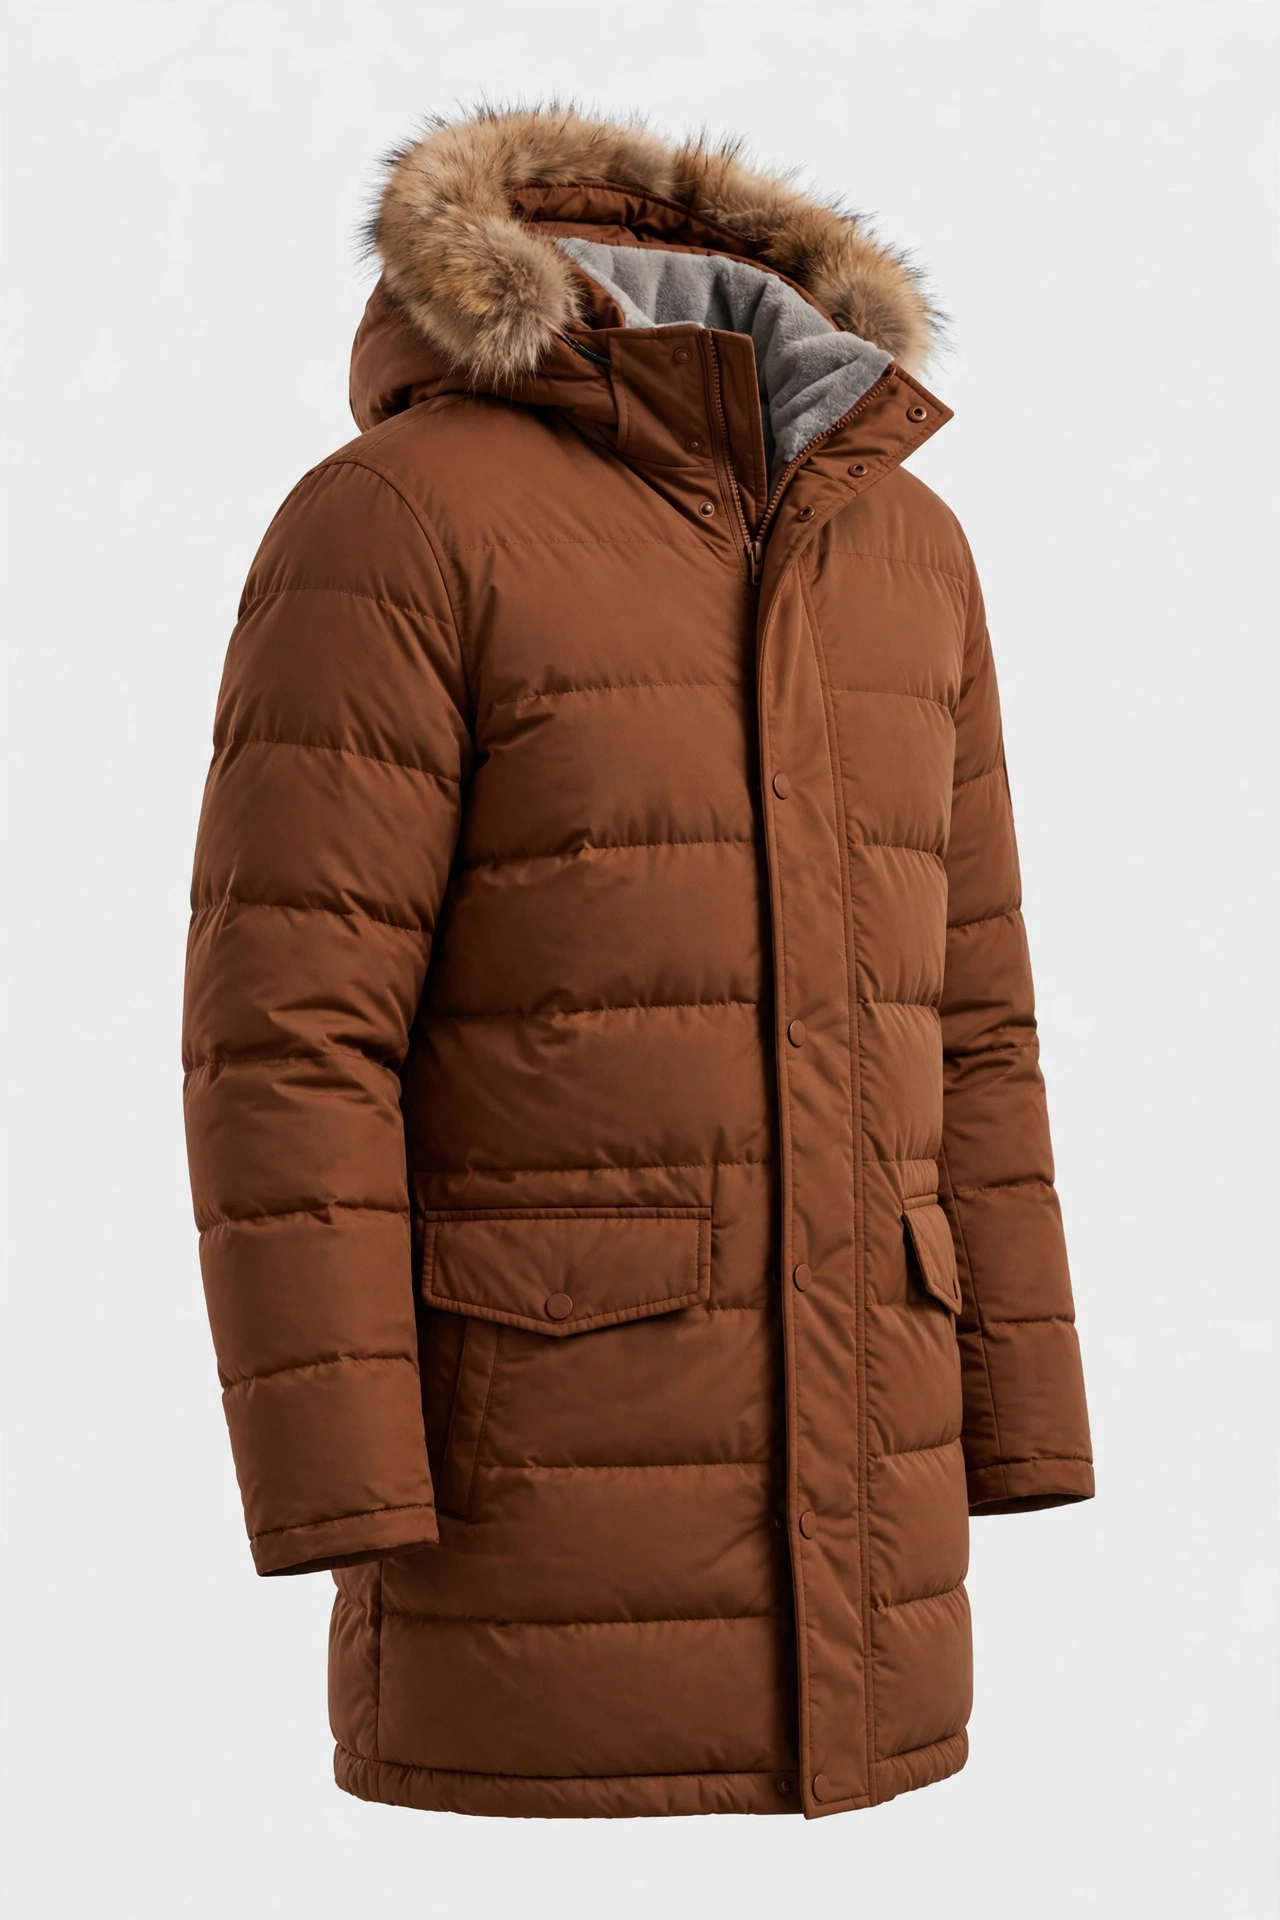
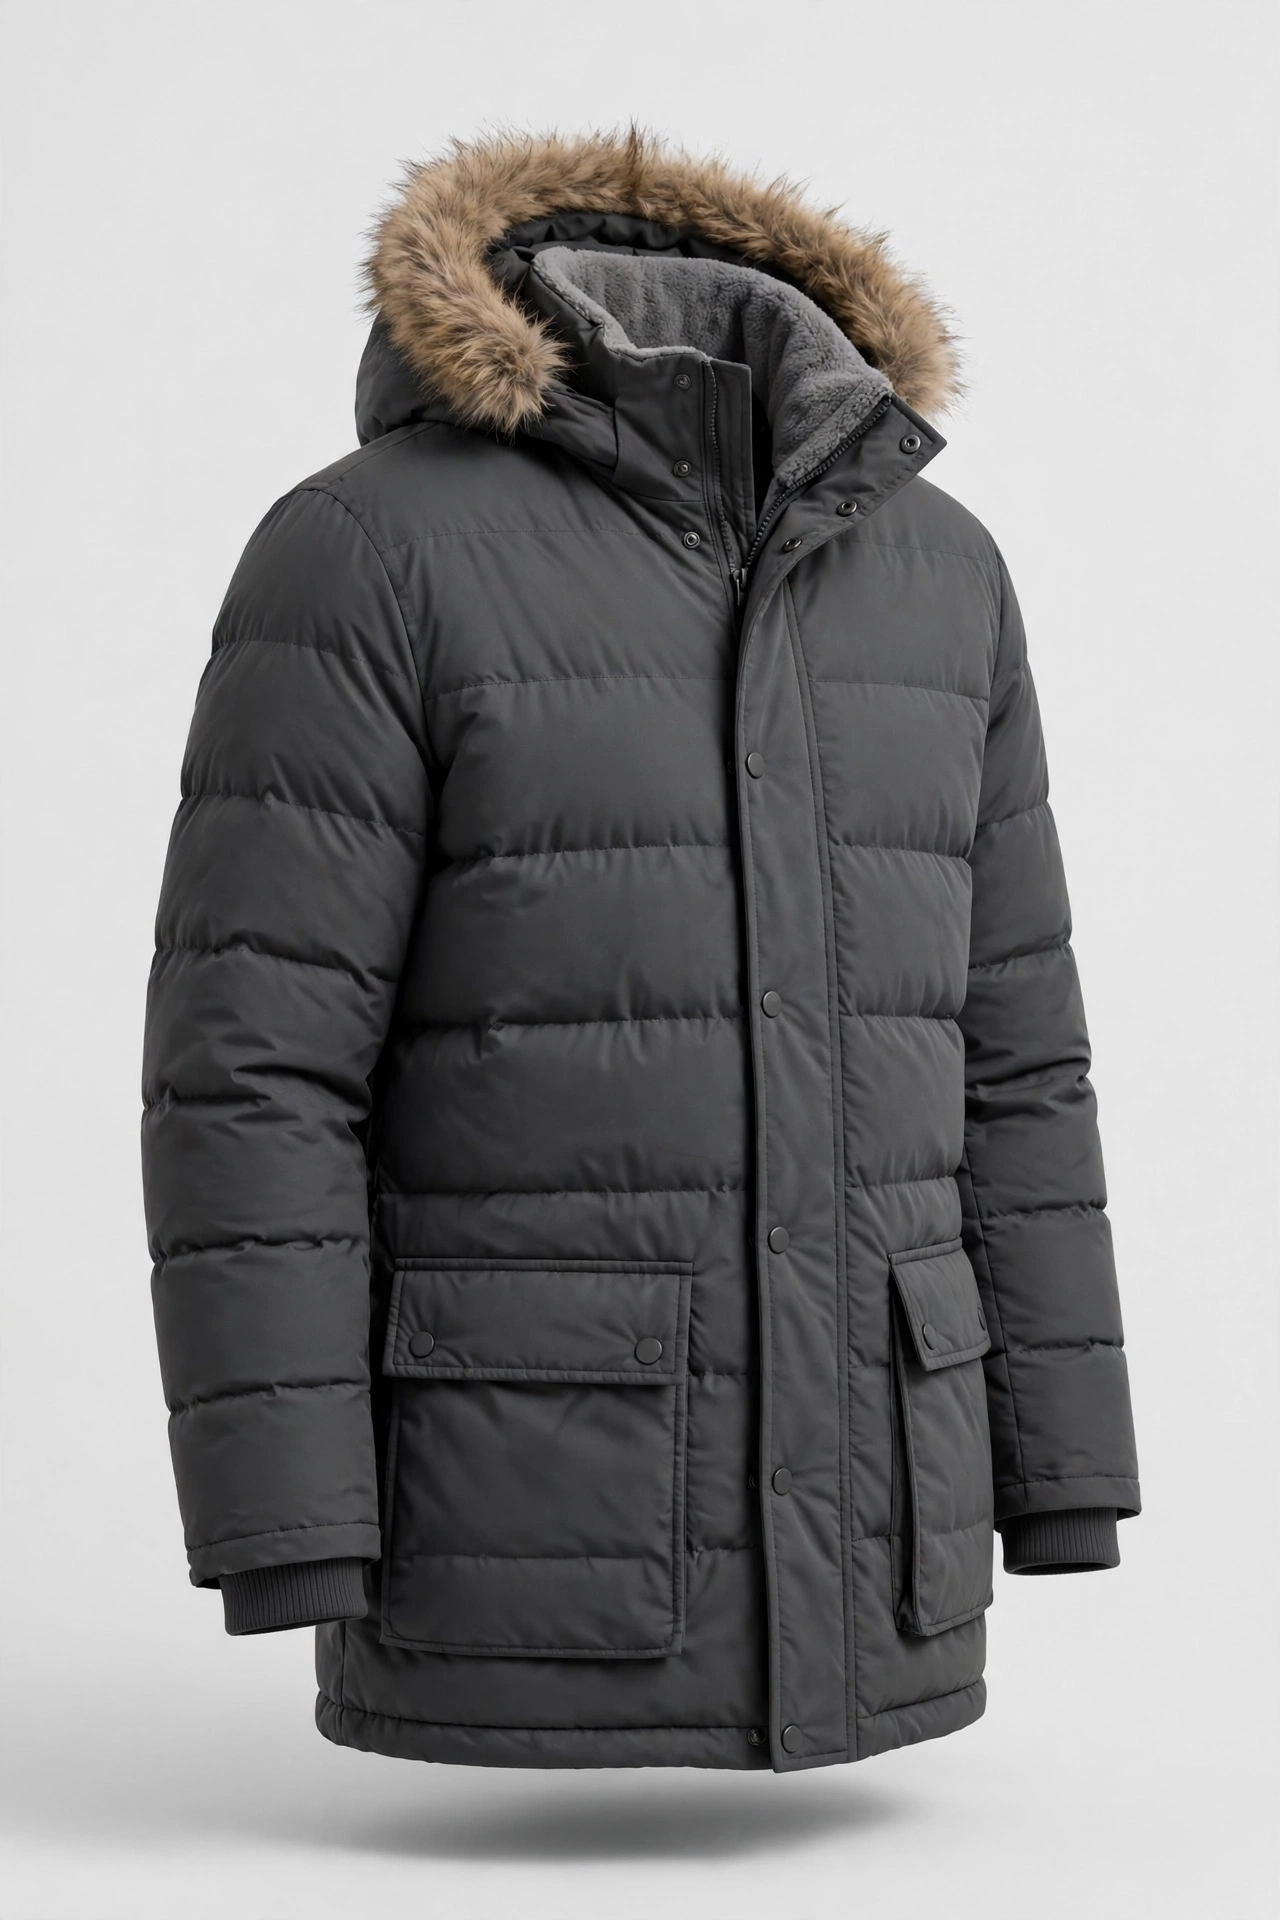
Top-6 pictures v2 (first colours) + 6 picks on home + compare on Deals + remove business disclosure

diff --git a/index.html b/index.html
@@ -146,7 +146,7 @@ button.btn{font:inherit;cursor:pointer}
 <img src="hero.webp" alt="A person walking through a snow-covered forest in winter">
 <div>
 <h1>Winter gear for real Canadian cold.</h1>
-<p>Three picks, two brands, no fluff. Parkas and boots from Mountain Warehouse and Columbia, with Canadian prices and honest flaws.</p>
+<p>Six picks, two brands, no fluff. Parkas and boots from Mountain Warehouse and Columbia, with Canadian prices and honest flaws.</p>
 <p><a class="btn" href="parkas-extreme-cold.html">Shop parkas</a><a class="btn alt" href="boots.html">Shop boots</a></p>
 </div>
 </div>
@@ -156,7 +156,7 @@ button.btn{font:inherit;cursor:pointer}
 <h2 style="margin:28px 0 0">Our top picks</h2>
 <p class="countline" id="countLine"></p>
 <div class="grid" id="shop"></div>
-<p class="note">Product pictures are created images of similar products, not the actual product photos. Prices checked <span data-checked-long></span>.</p>
+<p class="note">Prices checked <span data-checked-long></span>.</p>
 
 <section class="box">
 <h2>Browse by guide</h2>
@@ -173,13 +173,12 @@ button.btn{font:inherit;cursor:pointer}
 <p>We list 50 products from Mountain Warehouse and Columbia, sold in Canada. Every price was checked live on the retailer’s own site and is re-checked three times a day. No hands-on testing: warmth and specs are the brands’ own published figures, and where a brand publishes no lab °C rating we say so instead of guessing.</p>
 </section>
 
-<p class="note" id="money">How we make money: right now, nothing. Every retailer link is a plain link and no affiliate commission is paid on it. When affiliate links are added, they will be clearly marked, and brands never pay for placement. This site sells nothing itself.</p>
 </main>
 <footer>
-<p>Winter Clothing Canada · Prices checked <span data-checked-long></span> · No tracking cookies · Product pictures are created images of similar products, not the actual product photos</p>
-<p><a href="index.html">Home</a> · <a href="parkas-extreme-cold.html">Extreme Cold Parkas</a> · <a href="parkas-budget.html">Budget Parkas</a> · <a href="parkas-everyday.html">Everyday Parkas</a> · <a href="boots.html">Boots</a> · <a href="deals.html">Deals</a> · <a href="index.html#money">How we make money</a></p>
+<p>Winter Clothing Canada · Prices checked <span data-checked-long></span> · No tracking cookies</p>
+<p><a href="index.html">Home</a> · <a href="parkas-extreme-cold.html">Extreme Cold Parkas</a> · <a href="parkas-budget.html">Budget Parkas</a> · <a href="parkas-everyday.html">Everyday Parkas</a> · <a href="boots.html">Boots</a> · <a href="deals.html">Deals</a></p>
 </footer>
-<script>var PAGE_MODE="home";var PAGE_SLUGS=["antarctic", "concord", "marquam"];</script>
+<script>var PAGE_MODE="home";var PAGE_SLUGS=["antarctic", "concord", "marquam", "expeditionist", "granger", "frost"];</script>
 <script src="products.js"></script>
 <script src="site.js"></script>
 </body>

diff --git a/parkas-everyday.html b/parkas-everyday.html
@@ -182,7 +182,7 @@ button.btn{font:inherit;cursor:pointer}
 <p class="countline" id="countLine"></p>
 <div class="grid" id="shop"></div>
 <div id="seeMore"></div>
-<p class="note">Product pictures are created images of similar products, not the actual product photos. Prices checked <span data-checked-long></span>.</p>
+<p class="note">Prices checked <span data-checked-long></span>.</p>
 
 <section class="box" id="compare">
 <h2>Compare at a glance</h2>
@@ -193,14 +193,10 @@ button.btn{font:inherit;cursor:pointer}
 
 <div id="details"></div>
 
-<section class="box" id="money">
-<h2>How we make money</h2>
-<p>Right now, nothing: every retailer link on this page is a plain link and no affiliate commission is paid on it. When affiliate links are added, they will be clearly marked, and brands never pay for placement. Prices change — every price here was checked <span data-checked-long></span>, and the retailer's page is the final word. This site sells nothing itself.</p>
-</section>
 </main>
 <footer>
-<p>Winter Clothing Canada · Prices checked <span data-checked-long></span> · No tracking cookies · Product pictures are created images of similar products, not the actual product photos</p>
-<p><a href="index.html">Home</a> · <a href="parkas-extreme-cold.html">Extreme Cold Parkas</a> · <a href="parkas-budget.html">Budget Parkas</a> · <a href="parkas-everyday.html">Everyday Parkas</a> · <a href="boots.html">Boots</a> · <a href="deals.html">Deals</a> · <a href="index.html#money">How we make money</a></p>
+<p>Winter Clothing Canada · Prices checked <span data-checked-long></span> · No tracking cookies</p>
+<p><a href="index.html">Home</a> · <a href="parkas-extreme-cold.html">Extreme Cold Parkas</a> · <a href="parkas-budget.html">Budget Parkas</a> · <a href="parkas-everyday.html">Everyday Parkas</a> · <a href="boots.html">Boots</a> · <a href="deals.html">Deals</a></p>
 </footer>
 <script>var PAGE_MODE="guide";var PAGE_SLUGS=["frost-tech-extreme-down-padded-jacket", "ems-frost-tech-extreme-down-jacket", "tech-down-heat-sealed-coat", "barlow-pass-turbodown-ii-jacket", "oak-harbor-ii-insulated-jacket", "lake-22-ii-down-hooded-jacket", "pike-lake-ii-hooded-jacket", "corelite-down-hooded-jacket", "labyrinth-loop-ii-hooded-jacket", "street-heights-parka", "last-tracks-iii-jacket"];</script>
 <script src="products.js"></script>

diff --git a/parkas-budget.html b/parkas-budget.html
@@ -182,7 +182,7 @@ button.btn{font:inherit;cursor:pointer}
 <p class="countline" id="countLine"></p>
 <div class="grid" id="shop"></div>
 <div id="seeMore"></div>
-<p class="note">Product pictures are created images of similar products, not the actual product photos. Prices checked <span data-checked-long></span>.</p>
+<p class="note">Prices checked <span data-checked-long></span>.</p>
 
 <section class="box" id="compare">
 <h2>Compare at a glance</h2>
@@ -193,14 +193,10 @@ button.btn{font:inherit;cursor:pointer}
 
 <div id="details"></div>
 
-<section class="box" id="money">
-<h2>How we make money</h2>
-<p>Right now, nothing: every retailer link on this page is a plain link and no affiliate commission is paid on it. When affiliate links are added, they will be clearly marked, and brands never pay for placement. Prices change — every price here was checked <span data-checked-long></span>, and the retailer's page is the final word. This site sells nothing itself.</p>
-</section>
 </main>
 <footer>
-<p>Winter Clothing Canada · Prices checked <span data-checked-long></span> · No tracking cookies · Product pictures are created images of similar products, not the actual product photos</p>
-<p><a href="index.html">Home</a> · <a href="parkas-extreme-cold.html">Extreme Cold Parkas</a> · <a href="parkas-budget.html">Budget Parkas</a> · <a href="parkas-everyday.html">Everyday Parkas</a> · <a href="boots.html">Boots</a> · <a href="deals.html">Deals</a> · <a href="index.html#money">How we make money</a></p>
+<p>Winter Clothing Canada · Prices checked <span data-checked-long></span> · No tracking cookies</p>
+<p><a href="index.html">Home</a> · <a href="parkas-extreme-cold.html">Extreme Cold Parkas</a> · <a href="parkas-budget.html">Budget Parkas</a> · <a href="parkas-everyday.html">Everyday Parkas</a> · <a href="boots.html">Boots</a> · <a href="deals.html">Deals</a></p>
 </footer>
 <script>var PAGE_MODE="guide";var PAGE_SLUGS=["water-resistant-down-jacket", "slope-edge-ii-hooded-jacket", "henry-ii-extreme-down-jacket", "ems-stratus-hooded-packable-down-jacket", "concord", "frost-extreme-down-jacket", "heat-sealed-down-jacket", "ems-67-down-jacket", "featherweight-extreme-down-hooded-jacket", "powder-lite-ii-jacket", "hikebound-ii-insulated-jacket", "pike-lake-ii-jacket"];</script>
 <script src="products.js"></script>

diff --git a/parkas-extreme-cold.html b/parkas-extreme-cold.html
@@ -182,7 +182,7 @@ button.btn{font:inherit;cursor:pointer}
 <p class="countline" id="countLine"></p>
 <div class="grid" id="shop"></div>
 <div id="seeMore"></div>
-<p class="note">Product pictures are created images of similar products, not the actual product photos. Prices checked <span data-checked-long></span>.</p>
+<p class="note">Prices checked <span data-checked-long></span>.</p>
 
 <section class="box" id="compare">
 <h2>Compare at a glance</h2>
@@ -193,14 +193,10 @@ button.btn{font:inherit;cursor:pointer}
 
 <div id="details"></div>
 
-<section class="box" id="money">
-<h2>How we make money</h2>
-<p>Right now, nothing: every retailer link on this page is a plain link and no affiliate commission is paid on it. When affiliate links are added, they will be clearly marked, and brands never pay for placement. Prices change — every price here was checked <span data-checked-long></span>, and the retailer's page is the final word. This site sells nothing itself.</p>
-</section>
 </main>
 <footer>
-<p>Winter Clothing Canada · Prices checked <span data-checked-long></span> · No tracking cookies · Product pictures are created images of similar products, not the actual product photos</p>
-<p><a href="index.html">Home</a> · <a href="parkas-extreme-cold.html">Extreme Cold Parkas</a> · <a href="parkas-budget.html">Budget Parkas</a> · <a href="parkas-everyday.html">Everyday Parkas</a> · <a href="boots.html">Boots</a> · <a href="deals.html">Deals</a> · <a href="index.html#money">How we make money</a></p>
+<p>Winter Clothing Canada · Prices checked <span data-checked-long></span> · No tracking cookies</p>
+<p><a href="index.html">Home</a> · <a href="parkas-extreme-cold.html">Extreme Cold Parkas</a> · <a href="parkas-budget.html">Budget Parkas</a> · <a href="parkas-everyday.html">Everyday Parkas</a> · <a href="boots.html">Boots</a> · <a href="deals.html">Deals</a></p>
 </footer>
 <script>var PAGE_MODE="guide";var PAGE_SLUGS=["antarctic", "concord", "marlow-extreme-waterproof-down-parka", "marquam", "landroamer-ii-parka", "glacier-ridge-down-jacket", "thunder-bay-ii-down-jacket", "winter-district-ii-interchange-jacket", "sauvie-sky-quad-parka-ic-jacket", "cape-ridge-parka", "featherpack-extreme-down-packable-jacket", "ems-ignite-extreme-down-insulated-jacket"];</script>
 <script src="products.js"></script>

diff --git a/boots-page-2.html b/boots-page-2.html
@@ -188,7 +188,7 @@ button.btn{font:inherit;cursor:pointer}
 <div class="grid" id="shop"></div>
 <div id="seeMore"></div>
 <div id="pager"></div>
-<p class="note">Product pictures are created images of similar products, not the actual product photos. Prices checked <span data-checked-long></span>.</p>
+<p class="note">Prices checked <span data-checked-long></span>.</p>
 
 <section class="box" id="compare">
 <h2>Compare at a glance</h2>
@@ -199,14 +199,10 @@ button.btn{font:inherit;cursor:pointer}
 
 <div id="details"></div>
 
-<section class="box" id="money">
-<h2>How we make money</h2>
-<p>Right now, nothing: every retailer link on this page is a plain link and no affiliate commission is paid on it. When affiliate links are added, they will be clearly marked, and brands never pay for placement. Prices change — every price here was checked <span data-checked-long></span>, and the retailer's page is the final word. This site sells nothing itself.</p>
-</section>
 </main>
 <footer>
-<p>Winter Clothing Canada · Prices checked <span data-checked-long></span> · No tracking cookies · Product pictures are created images of similar products, not the actual product photos</p>
-<p><a href="index.html">Home</a> · <a href="parkas-extreme-cold.html">Extreme Cold Parkas</a> · <a href="parkas-budget.html">Budget Parkas</a> · <a href="parkas-everyday.html">Everyday Parkas</a> · <a href="boots.html">Boots</a> · <a href="deals.html">Deals</a> · <a href="index.html#money">How we make money</a></p>
+<p>Winter Clothing Canada · Prices checked <span data-checked-long></span> · No tracking cookies</p>
+<p><a href="index.html">Home</a> · <a href="parkas-extreme-cold.html">Extreme Cold Parkas</a> · <a href="parkas-budget.html">Budget Parkas</a> · <a href="parkas-everyday.html">Everyday Parkas</a> · <a href="boots.html">Boots</a> · <a href="deals.html">Deals</a></p>
 </footer>
 <script>var PAGE_MODE="guide";var PAGE_SLUGS=["nevis-extreme-thermal-waterproof-snow-boots", "bergen-waterproof-thermal-snow-boots", "park-snow-boots", "bugaboot-iii-boot", "bugaboot-iii-xtm-boot", "bugaboot-peak-wide", "snowtrekker-ii-boot", "fairbanks-omni-heat-boot-wide"];var PAGE_PAGED=true;var PAGE_RANGE=[9,16];var PAGE_NUM=2;var PAGE_TOTAL=2;var PAGE_PREV="boots.html";var PAGE_NEXT=null;</script>
 <script src="products.js"></script>

diff --git a/boots.html b/boots.html
@@ -188,7 +188,7 @@ button.btn{font:inherit;cursor:pointer}
 <div class="grid" id="shop"></div>
 <div id="seeMore"></div>
 <div id="pager"></div>
-<p class="note">Product pictures are created images of similar products, not the actual product photos. Prices checked <span data-checked-long></span>.</p>
+<p class="note">Prices checked <span data-checked-long></span>.</p>
 
 <section class="box" id="compare">
 <h2>Compare at a glance</h2>
@@ -199,14 +199,10 @@ button.btn{font:inherit;cursor:pointer}
 
 <div id="details"></div>
 
-<section class="box" id="money">
-<h2>How we make money</h2>
-<p>Right now, nothing: every retailer link on this page is a plain link and no affiliate commission is paid on it. When affiliate links are added, they will be clearly marked, and brands never pay for placement. Prices change — every price here was checked <span data-checked-long></span>, and the retailer's page is the final word. This site sells nothing itself.</p>
-</section>
 </main>
 <footer>
-<p>Winter Clothing Canada · Prices checked <span data-checked-long></span> · No tracking cookies · Product pictures are created images of similar products, not the actual product photos</p>
-<p><a href="index.html">Home</a> · <a href="parkas-extreme-cold.html">Extreme Cold Parkas</a> · <a href="parkas-budget.html">Budget Parkas</a> · <a href="parkas-everyday.html">Everyday Parkas</a> · <a href="boots.html">Boots</a> · <a href="deals.html">Deals</a> · <a href="index.html#money">How we make money</a></p>
+<p>Winter Clothing Canada · Prices checked <span data-checked-long></span> · No tracking cookies</p>
+<p><a href="index.html">Home</a> · <a href="parkas-extreme-cold.html">Extreme Cold Parkas</a> · <a href="parkas-budget.html">Budget Parkas</a> · <a href="parkas-everyday.html">Everyday Parkas</a> · <a href="boots.html">Boots</a> · <a href="deals.html">Deals</a></p>
 </footer>
 <script>var PAGE_MODE="guide";var PAGE_SLUGS=["expeditionist", "granger", "frost", "blizzard-snow-boots", "ems-vapour-leather-waterproof-thermal-snow-boots", "filey-snow-boots", "quinn-baffled-snow-boots", "arctic-thermal-extreme-waterproof-snow-boots"];var PAGE_PAGED=true;var PAGE_RANGE=[1,8];var PAGE_NUM=1;var PAGE_TOTAL=2;var PAGE_PREV=null;var PAGE_NEXT="boots-page-2.html";</script>
 <script src="products.js"></script>

diff --git a/deals.html b/deals.html
@@ -163,11 +163,17 @@ button.btn{font:inherit;cursor:pointer}
 <button data-dsort="price">Lowest price</button>
 </div>
 <div id="discountTable"></div>
-<p class="note">“Lowest seen” is the lowest price we have recorded since November 5, 2026. The bars beside it show each price check so far — taller means a higher price that day. A green ↓ means the last re-check found it cheaper than the check before. Product pictures are created images of similar products, not the actual product photos.</p>
+<p class="note">“Lowest seen” is the lowest price we have recorded since November 5, 2026. The bars beside it show each price check so far — taller means a higher price that day. A green ↓ means the last re-check found it cheaper than the check before.</p>
+
+<section class="box" id="compare">
+<h2>Compare at a glance</h2>
+<p>Warmth, water protection and price for all 50 products, side by side.</p>
+<div id="compareTable"></div>
+</section>
 </main>
 <footer>
-<p>Winter Clothing Canada · Prices checked <span data-checked-long></span> · No tracking cookies · Product pictures are created images of similar products, not the actual product photos</p>
-<p><a href="index.html">Home</a> · <a href="parkas-extreme-cold.html">Extreme Cold Parkas</a> · <a href="parkas-budget.html">Budget Parkas</a> · <a href="parkas-everyday.html">Everyday Parkas</a> · <a href="boots.html">Boots</a> · <a href="deals.html">Deals</a> · <a href="index.html#money">How we make money</a></p>
+<p>Winter Clothing Canada · Prices checked <span data-checked-long></span> · No tracking cookies</p>
+<p><a href="index.html">Home</a> · <a href="parkas-extreme-cold.html">Extreme Cold Parkas</a> · <a href="parkas-budget.html">Budget Parkas</a> · <a href="parkas-everyday.html">Everyday Parkas</a> · <a href="boots.html">Boots</a> · <a href="deals.html">Deals</a></p>
 </footer>
 <script>var PAGE_MODE="deals";var PAGE_SLUGS=[];</script>
 <script src="products.js"></script>

diff --git a/site.js b/site.js
@@ -1,9 +1,9 @@
 /* Winter Clothing Canada — shared page logic.
    Loaded after products.js. Each page defines PAGE_MODE ("home", "guide" or
-   "deals") and PAGE_SLUGS before this file. Home shows the 3 top picks;
+   "deals") and PAGE_SLUGS before this file. Home shows the 6 top picks;
    guide pages show their own subset; the deals page shows the discount
    table only. */
-var TOP_PICKS=["antarctic","concord","marquam"];
+var TOP_PICKS=["antarctic","concord","marquam","expeditionist","granger","frost"];
 var GUIDE_PAGE={
 "antarctic":"parkas-extreme-cold.html","concord":"parkas-extreme-cold.html",
 "marlow-extreme-waterproof-down-parka":"parkas-extreme-cold.html","marquam":"parkas-extreme-cold.html",
@@ -141,7 +141,7 @@ function renderCards(){
   grid.innerHTML=list.map(cardHtml).join("");
   var cl=$("countLine");
   if(cl){
-    if(PAGE_MODE==="home")cl.textContent="Our three top picks.";
+    if(PAGE_MODE==="home")cl.textContent="Our six top picks.";
     else if(isPaged()&&isUnfiltered())cl.textContent="Showing "+PAGE_RANGE[0]+"\u2013"+PAGE_RANGE[1]+" of 16 boots.";
     else cl.textContent="Showing "+list.length+" of "+pageProducts().length+" products on this page.";
   }
@@ -210,7 +210,7 @@ function renderDetails(){
 /* ---------- compare: static table (dual render) ---------- */
 function renderCompareTable(){
   var box=$("compareTable");if(!box)return;
-  var list=PAGE_MODE==="home"?PRODUCTS:pageProducts();
+  var list=(PAGE_MODE==="home"||PAGE_MODE==="deals")?PRODUCTS:pageProducts();
   var h='<table class="tbl-desktop"><tr><th>Product</th><th>Warmth claim</th><th>Water protection</th><th>Price</th></tr>';
   list.forEach(function(p){
     h+='<tr><td><a href="'+detailLink(p)+'">'+esc(p.name)+'</a></td><td>'+esc(p.warmthText)+'</td><td>'+esc(p.waterText)+'</td><td>'+money(p.price)+'</td></tr>';
